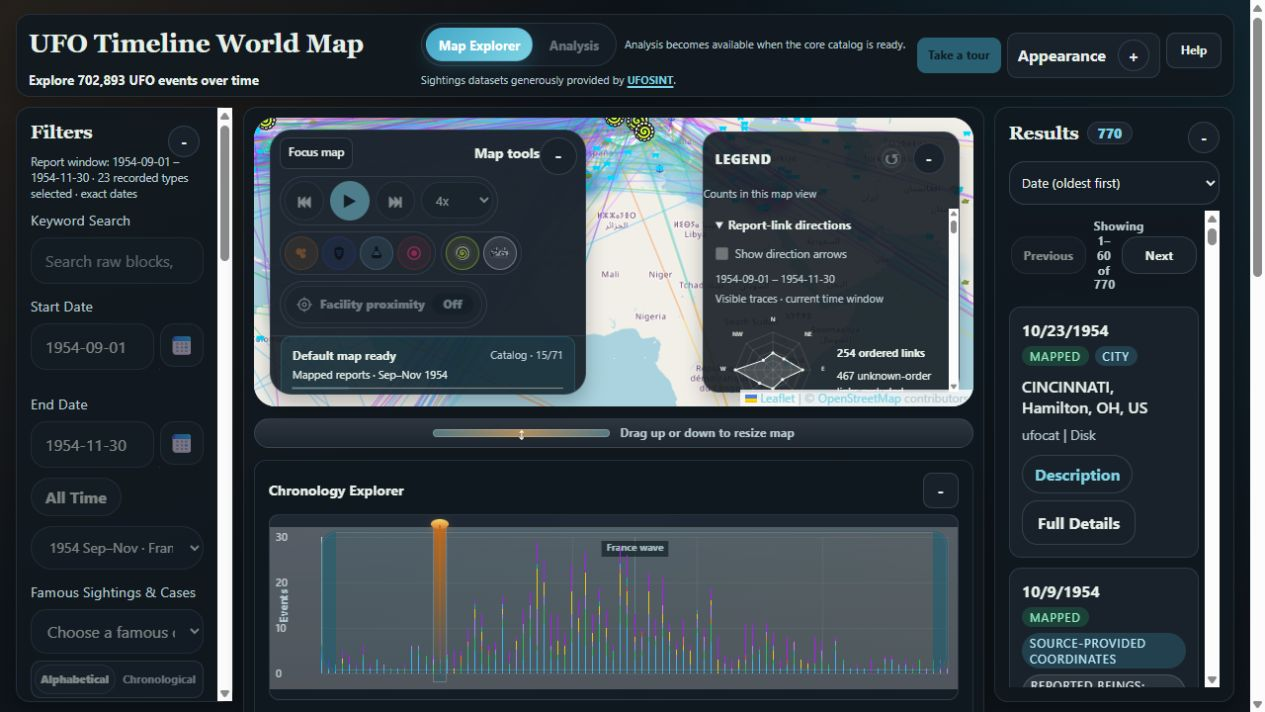
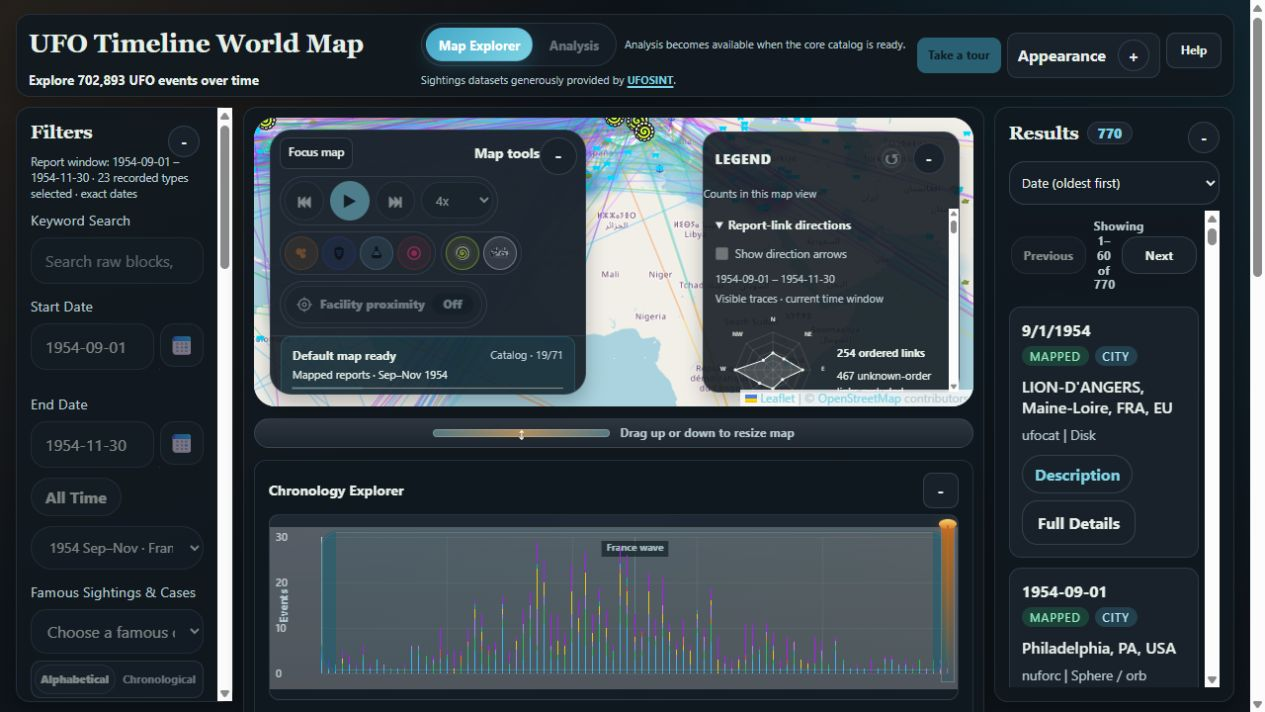
Record hosted progressive startup preview and remaining catalog delay

diff --git a/releases/workspace-analysis-20261008/PROGRESSIVE_STARTUP_PREVIEW.md b/releases/workspace-analysis-20261008/PROGRESSIVE_STARTUP_PREVIEW.md
@@ -15,9 +15,12 @@ the canonical packed endpoint order. Default parity is 770 mapped reports and 76
 verified hosted viewport, 721 links comprise 254 ordered and 467 unresolved links, matching the final
 full-catalog view. Unknown chronology remains unknown.
 
-Initial hosted observations: 2.02 and 2.22 seconds to the usable map. These are desktop browser
-observations with existing shared-asset cache, not a mobile cold-load benchmark. Final observations
-and deployment identity are recorded in `progressive_startup_verification.json`.
+Final hosted observation: 3.15 seconds to the usable map and 28.72 seconds to full search/Analysis
+readiness. Development observations varied from 2.02 to 5.74 seconds for the map, and 26–34 seconds
+for the complete catalog. These are desktop browser observations with existing shared-asset cache,
+not a mobile cold-load benchmark or a controlled speed ratio. The remaining background delay needs
+further work before production. Final deployment is `e75adec1`, runtime commit `c8efb25`;
+observations and public asset verification are recorded in `progressive_startup_verification.json`.
 
 Validation covers pinned profile/chronology/radar parity, actual startup and promotion functions,
 date extent expansion, background and render failure/retry, control locks, context-layer readiness,
@@ -27,6 +30,8 @@ Storage lifecycle: the single candidate remains `.tmp/workspace-analysis-2026100
 canonical data and the 87 immutable R2 objects are unchanged. The generated profile is approximately
 287 KB; no new file exceeds 100 MiB and total task growth is below 5 MiB. No full copies or extra
 staging trees were created. Production `b4e04dc8-4605-486e-bdbc-174acd3ca37e` and designated rollback
-`626b22b4-af0a-4252-8525-0ba21289c0d0` remain retained. Interim preview deployments `8b69fe4c` and
-`77f024c0` are superseded by the final preview and may be removed after review; no dataset deletion
-is proposed. The legacy scoped profile remains necessary for the normal-startup fallback.
+`626b22b4-af0a-4252-8525-0ba21289c0d0` remain retained. Interim provider preview deployments
+`8b69fe4c`, `77f024c0`, `6a417cb8`, and `4a12771b` are superseded by `e75adec1` and are proposed
+for removal after review; they contain the same shared assets with intermediate runtime changes.
+No dataset deletion is proposed. The legacy scoped profile remains necessary for the normal-startup
+fallback. There are no superseded local staging trees or backups from this task.
